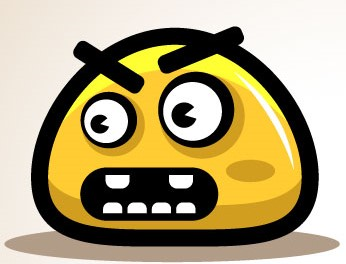
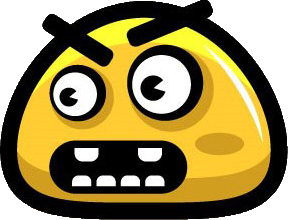
Поворот героя

diff --git a/main.py b/main.py
@@ -2,6 +2,7 @@ import pygame, os, sys, random
 
 pygame.init()
 n = 100
+f = 1
 k = 0
 lvl = ['map1.txt', 'map2.txt']
 def xxp(n):
@@ -82,11 +83,39 @@ class Tile(pygame.sprite.Sprite):
         elif tile_type == 'flag':
             self.add(flag_group)
 
+class AnimatedSprite(pygame.sprite.Sprite):
+    def __init__(self, sheet, columns, rows, x, y):
+        super().__init__(all_sprites)
+        self.frames = []
+        self.cut_sheet(sheet, columns, rows)
+        self.cur_frame = 0
+        self.image = self.frames[self.cur_frame]
+        self.rect = self.rect.move(x, y)
+
+    def cut_sheet(self, sheet, columns, rows):
+        self.rect = pygame.Rect(0, 0, sheet.get_width() // columns,
+                                sheet.get_height() // rows)
+        for j in range(rows):
+            for i in range(columns):
+                frame_location = (self.rect.w * i, self.rect.h * j)
+                self.frames.append(sheet.subsurface(pygame.Rect(
+                    frame_location, self.rect.size)))
+
+    def update(self):
+        self.cur_frame = (self.cur_frame + 1) % len(self.frames)
+        self.image = self.frames[self.cur_frame]
+
 class Player(pygame.sprite.Sprite):
     def __init__(self, pos_x, pos_y):
         super().__init__(player_group, all_sprites)
         self.image = player_image
         self.rect = self.image.get_rect().move(tile_width * pos_x + 5, tile_height * pos_y)
+
+    def update(self, *args):
+        if f == 0:
+            self.image = pygame.transform.flip(self.image, True, False)
+        elif f == 1:
+            self.image = pygame.transform.flip(self.image, True, False)
 
     def move(self, x, y):
         self.rect = self.image.get_rect().move(tile_width * x + self.rect.x, tile_height * y + self.rect.y)
@@ -139,15 +168,16 @@ screen = pygame.display.set_mode(size)
 clock = pygame.time.Clock()
 start_screen()
 
-tile_images = {'wall': load_image('box.png'), 'empty': load_image('grass1.png'),
-               'mob': pygame.transform.scale(load_image('mob1_1.png'), (50, 50)),
-               'water': pygame.transform.scale(load_image('water.jpg'), (50, 50)),
+tile_images = {'wall': pygame.transform.scale(load_image('box.png'), (50, 50)),
+               'empty': pygame.transform.scale(load_image('grass1.png'), (50, 50)),
+               'mob': pygame.transform.scale(load_image('mob1_1.png', -1), (50, 50)),
+               'water': pygame.transform.scale(load_image('water.jpg', -1), (50, 50)),
                'stone': pygame.transform.scale(load_image('stone.jpg', -1), (50, 50)),
-               'stone1': pygame.transform.scale(load_image('stone1.jpg', -1), (50, 50)),
+               'stone1': load_image('stone1.jpg', -1),
                'stone2': pygame.transform.scale(load_image('stone2.png', -1), (50, 50)),
                'ground': pygame.transform.scale(load_image('ground.jpg'), (50, 50)),
-               'flag': pygame.transform.scale(load_image('flag.jpg', -1), (50, 45))}
-player_image = pygame.transform.scale(load_image('url1.jpg'), (40, 50))
+               'flag': pygame.transform.scale(load_image('flag.jpg', -1), (50, 50))}
+player_image = pygame.transform.scale(load_image('url1.jpg', -1), (40, 50))
 tile_width = tile_height = 50
 all_sprites = pygame.sprite.Group()
 tiles_group = pygame.sprite.Group()
@@ -182,19 +212,43 @@ while running:
                     if n <= 0:
                         terminate()
             if key == pygame.K_RIGHT:
-                player.move(1, 0)
-                if pygame.sprite.spritecollide(player, walls_group ,False):
+                if f != 1:
+                    player.move(1, 0)
+                    f = 1
+                    all_sprites.update(event)
+                    if pygame.sprite.spritecollide(player, walls_group, False):
+                        player.move(-1, 0)
+                    elif pygame.sprite.spritecollide(player, mob_group, False):
+                        n = xxp(n)
+                        if n <= 0:
+                            terminate()
+                else:
+                    player.move(1, 0)
+                    f = 1
+                    if pygame.sprite.spritecollide(player, walls_group ,False):
+                        player.move(-1, 0)
+                    elif pygame.sprite.spritecollide(player, mob_group, False):
+                        n = xxp(n)
+                        if n <= 0:
+                            terminate()
+            if key == pygame.K_LEFT:
+                if f != 0:
                     player.move(-1, 0)
-                elif pygame.sprite.spritecollide(player, mob_group, False):
-                    n = xxp(n)
+                    f = 0
+                    all_sprites.update(event)
+                    if pygame.sprite.spritecollide(player, walls_group, False):
+                        player.move(1, 0)
+                    elif pygame.sprite.spritecollide(player, mob_group, False):
+                        n = xxp(n)
                     if n <= 0:
                         terminate()
-            if key == pygame.K_LEFT:
-                player.move(-1, 0)
-                if pygame.sprite.spritecollide(player, walls_group, False):
-                    player.move(1, 0)
-                elif pygame.sprite.spritecollide(player, mob_group, False):
-                    n = xxp(n)
+                else:
+                    player.move(-1, 0)
+                    f = 0
+                    if pygame.sprite.spritecollide(player, walls_group, False):
+                        player.move(1, 0)
+                    elif pygame.sprite.spritecollide(player, mob_group, False):
+                        n = xxp(n)
                     if n <= 0:
                         terminate()
             elif pygame.sprite.spritecollide(player, flag_group, False):
